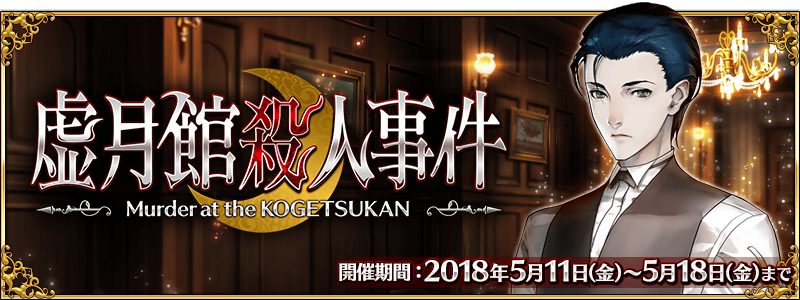
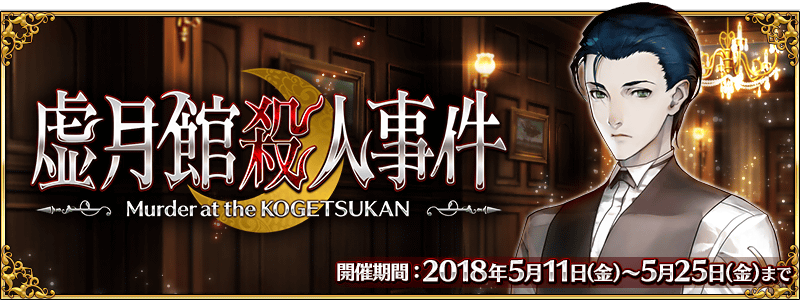
0511kyfrb

diff --git a/event_mysteryfair2018_ca.html b/event_mysteryfair2018_ca.html
@@ -57,9 +57,9 @@ table.trbgcolor img {vertical-align: middle;
 <div style="height:10px; margin-top:-15px;"></div>
 <!-- block -->
 <p style="margin-bottom: 5px;"><img alt="" src="common/images/2018/mysteryfair2018_ca_rtao7/midashi_01.png"/></p>
-<p><span class="em01">2018年5月11日(五) 17:00(預定)～5月25日(五) 11:59的期間，舉辦「Fate/Grand Order 春之神秘祭2018宣傳活動」。</span></p>
+<p><span class="em01">2018年5月11日(五) 17:00～5月25日(五) 11:59的期間，舉辦「Fate/Grand Order 春之神秘祭2018宣傳活動」。</span></p>
 <p><span class="diamond">◆</span><span class="strong">舉辦期間</span><span class="diamond">◆</span><br/>
-<span class="em01">2018年5月11日(五) 17:00(預定)～5月25日(五) 11:59</span></p>
+<span class="em01">2018年5月11日(五) 17:00～5月25日(五) 11:59</span></p>
 <!-- block -->
 <p style="margin-bottom: 5px;"><img alt="" src="common/images/2018/mysteryfair2018_ca_rtao7/midashi_02.png"/></p>
 <p><img alt="" height="300" src="common/images/2018/mysteryfair2018_ca_rtao7/info_banner.png" width="800"/></p>
@@ -68,7 +68,7 @@ table.trbgcolor img {vertical-align: middle;
 ※請注意「謎特異點Ⅰ 逃離貝克街 舉辦記念關卡」並無冒險部份。<br/>
 <span class="notice">※通過「謎特異點Ⅰ 逃離貝克街 舉辦記念關卡」後才能進行期間限定活動「虛月館殺人事件」的主線關卡。</span></span></p>
 <p><span class="diamond">◆</span><span class="strong">舉辦期間</span><span class="diamond">◆</span><br/>
-<span class="em01">2018年5月11日(五) 17:00(預定)～5月25日(五) 11:59<br/>
+<span class="em01">2018年5月11日(五) 17:00～5月25日(五) 11:59<br/>
 ※做為期間限定活動「虛月館殺人事件」的結束時間5月18日(五) 11:59以後，未通過「謎特異點Ⅰ 逃離貝克街 舉辦記念關卡」的話，會在迦勒底之門內顯示關卡。</span></p>
 <p><span class="diamond">◆</span><span class="strong">關卡開放條件</span><span class="diamond">◆</span><br/>
 <span class="em01 notice">通過「特異點F 炎上汙染都市 冬木」的Master對象</span>
@@ -97,7 +97,7 @@ table.trbgcolor img {vertical-align: middle;
 將好友和其他Master做為支援能選擇Servant和概念禮裝的編成列入考量，藉此機會入手更多友情點數吧！<br/>
 </span></p>
 <p><span class="diamond">◆</span><span class="strong">舉辦期間</span><span class="diamond">◆</span><br/>
-<span class="em01">2018年5月11日(五) 17:00(預定)～5月25日(五) 11:59</span></p>
+<span class="em01">2018年5月11日(五) 17:00～5月25日(五) 11:59</span></p>
 </td>
 <td style="width:27%; vertical-align:top; padding-left: 3%;"><img align="right" alt="" src="common/images/2018/mysteryfair2018_ca_rtao7/info_image_01.png" style="vertical-align:bottom;" width="100%"/></td>
 </tr></tbody></table>
@@ -148,7 +148,7 @@ table.trbgcolor img {vertical-align: middle;
 ※請注意強化關卡、曜日關卡為對象外。<br/>
 <span class="notice">※在戰鬥中撤退的情況AP的消耗也是1/2。</span></span></p>
 <p><span class="diamond">◆</span><span class="strong">舉辦期間</span><span class="diamond">◆</span><br/>
-<span class="em01">2018年5月11日(五) 17:00(預定)～5月25日(五) 11:59<br/>
+<span class="em01">2018年5月11日(五) 17:00～5月25日(五) 11:59<br/>
 </span></p>
 <p><span class="diamond">◆</span><span class="strong">對象Servant</span><span class="diamond">◆</span></p>
 <table align="center" class="trbgcolor" style=";;margin-bottom: 10px;" width="100%">
@@ -190,7 +190,7 @@ table.trbgcolor img {vertical-align: middle;
 <p style="margin-bottom: 5px;"><img alt="" src="common/images/2018/mysteryfair2018_ca_rtao7/midashi_05.png"/></p>
 <p><span class="em01">在達文西工房的「<span class="notice">稀有稜鏡交換</span>」追加夏洛克・福爾摩斯的體驗關卡。</span></p>
 <p><span class="diamond">◆</span><span class="strong">夏洛克・福爾摩斯體驗關卡追加時間</span><span class="diamond">◆</span><br/>
-<span class="em01">2018年5月11日(五) 17:00(預定)～</span></p>
+<span class="em01">2018年5月11日(五) 17:00～</span></p>
 <table class="table_non mt-15 table_color">
 <tbody>
 <tr>
@@ -227,6 +227,7 @@ table.trbgcolor img {vertical-align: middle;
 <br/>
 <p><span class="em01">關於期間限定活動「虛月館殺人事件」和「Fate/Grand Order 春之神秘祭2018」的詳情請至下述橫幅確認。</span></p>
 <p><a href="event_kogetsukan.html" target="_self"><img alt="" height="300" src="common/images/2018/kogetsukan_vnk40/top_banner.png" width="800"/></a><br/>
+※5/11(五) 17:00修正<br/>
 <a href="event_mysteryfair2018.html" target="_self"><img alt="" height="300" src="common/images/2018/mysteryfair2018_djr4g/top_banner.png" width="800"/></a></p>
 </article>
 </div>

diff --git a/event_mysteryfair2018.html b/event_mysteryfair2018.html
@@ -125,7 +125,7 @@ table.trbgcolor img {vertical-align: middle;
 「謎特異點Ⅰ 逃離貝克街 舉辦記念關卡」和活動相關Servant的友情點數獲得量2倍詳情請至<a href="event_mysteryfair2018_ca.html" target="_self">此處</a>確認。<br/>
 </span></p>
 <p><span class="diamond">◆</span><span class="strong">宣傳活動舉辦期間</span><span class="diamond">◆</span><br/>
-<span class="em01">2018年5月11日(五) 17:00(預定)～5月25日(五) 11:59</span></p>
+<span class="em01">2018年5月11日(五) 17:00～5月25日(五) 11:59</span></p>
 <br/>
 <!-- block -->
 <p style="margin-bottom: 5px;"><img alt="" src="common/images/2018/mysteryfair2018_djr4g/midashi_05.png"/></p>
@@ -136,16 +136,29 @@ table.trbgcolor img {vertical-align: middle;
 期間限定活動「虚月館殺人事件」的詳情請至<a href="event_kogetsukan.html" target="_self">此處</a>確認。<br/>
 </span></p>
 <p><span class="diamond">◆</span><span class="strong">活動舉辦期間</span><span class="diamond">◆</span><br/>
-<span class="em01">2018年5月11日(五) 17:00(預定)～5月18日(五) 11:59</span></p>
+<span class="em01">2018年5月11日(五) 17:00～<s>5月18日(五) 11:59</s>5月25日(五) 11:59<br/>
+※5/11(五) 17:00修正</span></p>
 <br/>
 <!-- block -->
 <p style="margin-bottom: 5px;"><img alt="" src="common/images/2018/mysteryfair2018_djr4g/midashi_06.png"/></p>
-<p><span class="diamond">◆</span><span class="strong">舉辦期間</span><span class="diamond">◆</span><br/>
-<span class="em01">2018年5月中旬預定～</span></p>
+<p><img alt="" height="300" src="common/images/2018/kogetsukan_vnk40/info_banner.png" width="800"/></p><p><span class="em01">【5月11日(五) 17:00 追記】<br/>
+通過現在舉辦中的期間限定活動「虛月館殺人事件」主線關卡至「其8」，投票給推理出的「虛月館殺人事件」真犯人吧！<br/>
+依靠從各位的推理推測出真犯人的話，主線關卡的通過報酬會有所變化。<br/>
+※可在遊戲內的主線關卡通過時獲得的報酬，就算未投票給推理出的真犯人，只要通過主線關卡的「其10」的話也可獲得。</span></p>
+<p><span class="diamond">◆</span><span class="strong">真犯人推理投票期間</span><span class="diamond">◆</span><br/>
+<span class="em01">2018年5月15日(二) 17:00～5月16日(三) 22:59<br/>
+<span class="notice">真犯人推理的投票頁面自2018年5月15日(二) 17:00公開。</span></span></p>
+<p><span class="diamond">◆</span><span class="strong">投票條件</span><span class="diamond">◆</span><br/>
+<span class="em01">請注意想投票給推理出的真犯人，必須通過期間限定活動「虛月館殺人事件」的主線關卡至「其8」。</span></p>
+<p><span class="diamond">◆</span><span class="strong">關於主線關卡通過報酬的內容變化</span><span class="diamond">◆</span><br/>
+<span class="em01">通過主線關卡後贈送「黃金果實4個、白銀果實4個、1,000萬QP」！<br/>
+另外，<span class="strong">靠各位的推理最多投票數的嫌疑犯，與主線關卡的<span class="notice">真犯人一致的話</span>，做為追加報酬可獲得<span class="notice">聖晶石10個</span></span>！<br/>
 <br/>
+【主線關卡通過報酬】<br/>
+<span class="strong">黃金果實4個、白銀果實4個、1,000萬QP</span><br/>
 <br/>
-<br/>
-<!-- block -->
+【真犯人一致情況的追加報酬】<br/>
+<span class="notice">聖晶石10個</span></span></p>
 </article>
 </div>
 <div id="gotop"><a href="#"><img src="common/images/btn_gotop_off.jpg" width="47" height="47" alt="返回頂端" /></a></div>

diff --git a/news_180511.html b/news_180511.html
@@ -1,0 +1,71 @@
+<!DOCTYPE html PUBLIC "-//W3C//DTD XHTML 1.0 Transitional//EN" "http://www.w3.org/TR/xhtml1/DTD/xhtml1-transitional.dtd">
+<html xmlns="http://www.w3.org/1999/xhtml">
+<head>
+<meta http-equiv="Content-Type" content="text/html; charset=utf-8" />
+<meta name="description" content="Fate/Grand Order台灣中文資料站" />
+<meta name="keywords" content="Fate/Grand Order,FGO,Fate/GO,TYPE-MOON,Fate,Saber,Archer,Lancer,Rider,Caster,Assassin,Berserker,Shielder,Ruler" />
+<title>5/11遊戲更新公告(17:00實施)</title>
+<link rel="icon" href="favicon.ico" type="image/vnd.microsoft.icon">
+<link href="common/css/common.css" rel="stylesheet" type="text/css" />
+<link href="common/css/detail_info.css" rel="stylesheet" type="text/css" />
+<link href="common/css/sidebar.css" rel="stylesheet" type="text/css" />
+<script type="text/javascript" src="common/js/jquery.min.js"></script>
+<script type="text/javascript" src="common/js/sidebar.js"></script>
+<script type="text/javascript" src="common/js/smoothRollOver.js"></script>
+<script type="text/javascript" src="common/js/scrollTop.js"></script>
+<script>
+  (function(i,s,o,g,r,a,m){i['GoogleAnalyticsObject']=r;i[r]=i[r]||function(){
+  (i[r].q=i[r].q||[]).push(arguments)},i[r].l=1*new Date();a=s.createElement(o),
+  m=s.getElementsByTagName(o)[0];a.async=1;a.src=g;m.parentNode.insertBefore(a,m)
+  })(window,document,'script','//www.google-analytics.com/analytics.js','ga');
+
+  ga('create', 'UA-70142247-1', 'auto');
+  ga('require', 'linkid');
+  ga('require', 'displayfeatures');
+  ga('send', 'pageview');
+</script>
+</head>
+<body onload="loadsidebar();">
+<!--二欄橫幅主要區塊開始-->
+<div style='position:relative;'>
+    <!--選單區塊開始-->
+    <div id="div_right_sidebar"></div>
+    <!--選單區塊結束-->
+    <!--主要內容區塊開始-->
+    <div id="div_content"><div class="container">
+<article class="content textsize" style="width:840px">
+<h1 class="headline3"><dl><dt class="date">5/11</dt><dd>遊戲更新公告(5/11 17:00實施)</dd></dl></h1>
+<p>非常感謝您的使用。<br>
+這裡是「Fate/Grand Order」營運團隊。</p>
+<p>已在下列時間，進行了遊戲更新。<br/>
+另外，本次的遊戲更新不包含程式的更新。</p>
+<p><font color="#ff0000">更新之後猜測可能會有因連線集中，導致感到遊戲的動作延遲的情況。<br/>
+屆時還請多加嘗試。</font></p>
+<p>■對應時間<br/>
+2018年5月11日(五) 17:00</p>
+
+<p>■對應內容<br/>
+▼遊戲的更新<br/>
+1.Fate/Grand Order 春之謎題祭2018宣傳活動的開始<br/>
+2.期間限定活動「虛月館殺人事件」的開始<br/></p>
+
+<p>▼問題的修正<br/>
+1.Servant詳細畫面中，一部份Servant的戰鬥角色圖像未正確顯示的問題修正<br/>
+　※對象Servant如下。<br/>
+　・<a href="svtData.html?no=6"><img src="common/images/icon/faces/1008000.png" class="itemM" title="齊格飛" /></a><br/>
+2.一部份圖像的顯示問題修正<br/>
+3.一部份文字的錯字漏字修正</p>
+
+<p>▼遊戲的修改<br/>
+・各種UI及圖像的調整</p>
+
+<p>今後也請多多指教「Fate/Grand Order」。</p>
+</article>
+</div>
+<div id="gotop"><a href="#"><img src="common/images/btn_gotop_off.jpg" width="47" height="47" alt="返回頂端" /></a></div>
+    </div>
+    <!--主要內容區塊結束-->
+</div>
+<!--二欄橫幅主要區塊結束-->
+</body>
+</html>

diff --git a/index.html b/index.html
@@ -146,7 +146,7 @@ $(function(){
 
 <br><span class="notice">☛「Lostbelt No.1」新登場Servant未隱藏真名</span><br>
 
-<h1 class="headline3"><dl><dt class="date">5/10</dt><span class="new">&nbsp;</span><dd>【預告】期間限定活動「虚月館殺人事件」</dd></dl></h1>
+<h1 class="headline3"><dl><dt class="date">5/11</dt><span class="new">&nbsp;</span><dd>期間限定活動「虛月館殺人事件」</dd></dl></h1>
 <p>
 <a href="event_kogetsukan.html"><img src="common/images/2018/kogetsukan_vnk40/top_banner.png" width=400 /></a>
 <a href="event_kogetsukan.html#midashi_04"><img src="common/images/2018/kogetsukan_vnk40/summon_banner.png" width=400 /></a>
@@ -155,6 +155,7 @@ $(function(){
 <div class="paragraph_details">
 <table class="noborder nopadding">
 <tr><td width=200>
+・<span class="notice"><a href="news_180511.html">5/11遊戲更新</a>(17:00實施)</span>
 </td><td width=200>
 </td><td width=200>
 </td><td width=200>
